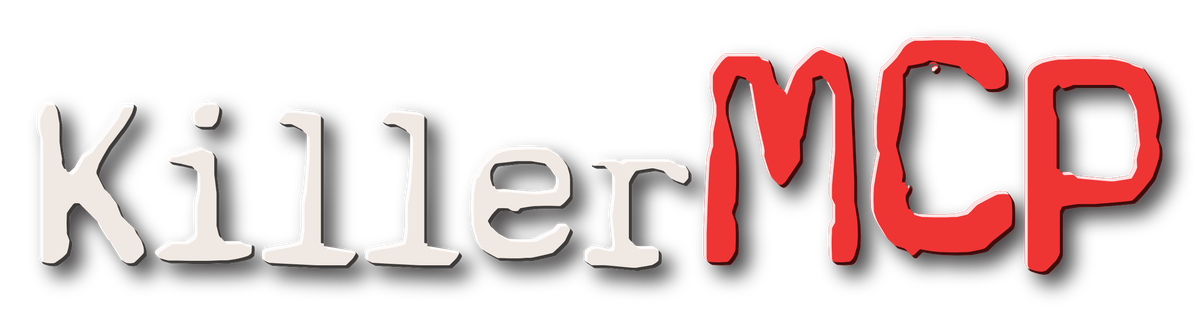
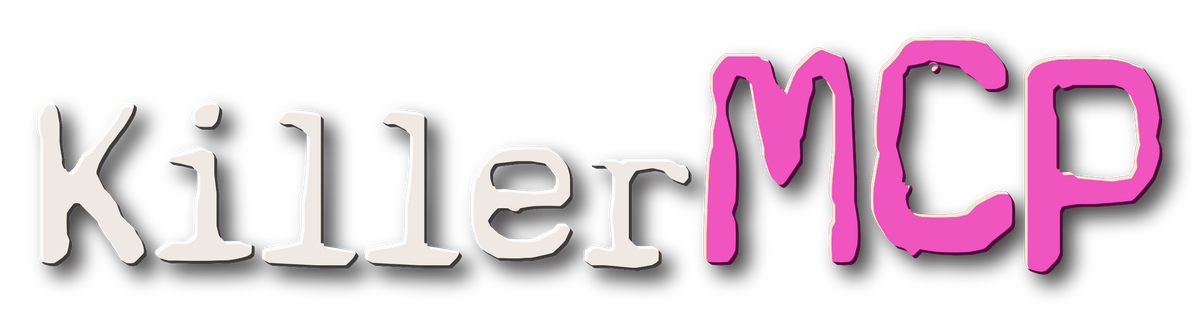
Shorten the README, list app tools in a table and use the magenta wordmark

Changed region(s): [[0.5858, 0.1154, 0.9867, 0.8942]]

diff --git a/README.md b/README.md
@@ -5,108 +5,46 @@
 
 One local MCP connection for KillerTools and the Killer app family: KillerPDF, KillerNotes, KillerScan, KillerShell, Killendar, KillerBench, and KillerShot.
 
-KillerMCP is a native .NET 10 host. It detects supported Killer apps, exposes their available commands, and registers one MCP server with compatible agent clients. The separate [KillerTools repository](https://github.com/SteveTheKiller/KillerTools) provides the shared engine for the website utilities.
+KillerMCP detects the Killer apps you have installed, exposes the commands each version supports, and registers one MCP server with your agent clients.
 
 ## Install
 
-[Download the signed KillerMCP installer](https://github.com/SteveTheKiller/KillerMCP/releases/latest/download/KillerMCP-Setup.exe), run setup, then open a new agent chat. Setup checks for the .NET 10 runtime and registers KillerMCP with Codex, Claude Code, Claude Desktop, Cursor, GitHub Copilot, Gemini CLI, and Windsurf when those clients are found.
-
-You can also install it with WinGet or Chocolatey. Both install the .NET 10 Desktop Runtime for you when it is missing. The Microsoft Store version carries its own .NET runtime, so it needs nothing installed first.
+[Download the signed installer](https://github.com/SteveTheKiller/KillerMCP/releases/latest/download/KillerMCP-Setup.exe), or install it with WinGet or Chocolatey:
 
 ```powershell
 winget install killermcp
 choco install killermcp
 ```
 
-Fully quit and reopen an agent client after setup or upgrade, then start a new chat. In Claude Desktop, KillerMCP appears under Settings > Developer as a running local server and under Connectors as a desktop connector. Cowork can use that local connection without a separate plugin.
+Setup registers KillerMCP with Codex, Claude Code, Claude Desktop, Cursor, GitHub Copilot, Gemini CLI, and Windsurf when it finds them. It needs the .NET 10 Desktop Runtime, which WinGet and Chocolatey install for you and the Microsoft Store version carries itself. Quit and reopen your agent client afterward, then start a new chat.
 
-Once connected, ask naturally:
-
-- `killer domain search example.com`
-- `killer merge these PDFs`
-- `killerscan my network`
-- `killer update status`
-
-The server supplies tool descriptions and instructions that help the client select the appropriate tool. Client behavior varies, so these phrases are guidance rather than guaranteed commands.
-
-KillerMCP checks GitHub Releases hourly and shows a Black/Fuchsia update window when a newer version is available. Choose whether future updates should stay off, check and ask, download and ask, or install automatically. Every downloaded installer must match the published SHA256 and pass Windows signature verification before it can run.
+KillerMCP checks GitHub Releases hourly and can stay off, ask, download and ask, or install updates automatically. Every update must match its published SHA256 and pass Windows signature verification before it runs.
 
 ## What it includes
 
-- All 81 KillerTools website utilities from the native KillerTools engine.
-- Automatic tool discovery for supported versions of KillerPDF, KillerScan, KillerNotes, KillerShell, Killendar, KillerBench, and KillerShot.
-- Ordinary text saving to new UTF-8 files in Downloads without converting it to Base64.
-- Client registrations preserved during native KillerMCP updates.
-- Install, reinstall, repair, and uninstall behavior through the KillerUI styled Windows setup.
-- A framework dependent native package for each supported operating system and processor architecture.
+| App | Tools |
+| --- | --- |
+| KillerTools | All 81 website utilities from the native KillerTools engine |
+| KillerPDF | Editing, conversion, inspection, OCR, printing, redaction and accessibility checks |
+| KillerScan | Network details, scans, host probes, MAC vendor lookup, ping, route tracing, diagnostics and speed tests |
+| KillerShell | Read-only file browsing, hashing, processes, services, event logs, registry and storage reports |
+| KillerNotes | Search, read, create, edit, organize, tag, import images, history and export |
+| Killendar | Agenda lookup and single appointments while the app is open and unlocked |
+| KillerShot | Screenshots, MP4 and GIF recording, OCR, QR reading and image edits |
+| KillerBench | Windows code lookups, diagnostic scans and guarded repairs that need UAC approval |
+| Cross-app | Export notes, scan reports, agendas and folder listings to PDF, or save reports as notes |
 
-KillerPDF provides PDF editing, conversion, inspection, OCR, printing, and accessibility tools when the installed version advertises them. KillerScan provides local network details, bounded scans, host probes, offline MAC vendor lookup, ping, route tracing, diagnostics, availability watching, and KillerSpeed tests. KillerShell provides read-only file browsing, text reading, file hashing, process and service listings with optional detail and filter, event log reading, registry inspection, drive information, and a folder size report with KillerShell 1.5.1 or newer. KillerNotes can search, read, create, edit, organize, color, import images, inspect links and history, and export notes. Killendar provides agenda lookup and creates single appointments while its window is open and unlocked.
-
-KillerShot takes screenshots, records MP4 or GIF, lists monitors, windows and recent captures, and opens images in its editor. Version 1.1.1 or newer also provides local OCR and QR reading, image edits into new files, recording controls, and capture-library search when its command line advertises them. PDF optimization's signature-invalidation option requires KillerPDF 1.9.1 or newer, and EPUB and DjVu book conversion requires KillerPDF 1.9.3 or newer, so MCP can be updated before PDF.
-
-KillerBench provides offline Windows code lookups, read-only checks and full diagnostic scans. It can also preview and run a fixed list of guarded Windows repairs. Repairs are off until you turn them on in the KillerMCP section of the KillerBench About window. Every repair needs a fresh preview and Windows administrator approval through UAC. Disruptive repairs, the first repair in each host session, and repairs after a setting change also show a window explaining the repair before Windows asks for approval. Windows Hello is not required. See [KillerBench](docs/CAPABILITIES.md#killerbench) for the full list and safeguards.
-
-Cross app workflows can export a KillerNotes note, KillerScan network report, Killendar agenda, or KillerShell directory listing to PDF. They can also save scan, agenda, and directory reports as notes, or render selected KillerPDF pages into image notes.
-
-Notes and Calendar versions advertising active-app pipe support can read encrypted data after you open and unlock the app. Newer Notes capabilities also expose templates, trash and version reads, restoration, pinning and tag organization. Tools appear only when the installed app advertises them.
-
-See [What KillerMCP can do](docs/CAPABILITIES.md) for the complete tool guide, examples, limits, and data handling details.
-
-For tool permissions and invocation logging, see [Tool permissions and visibility](docs/CAPABILITIES.md#tool-permissions-and-visibility) and [Tool call history](docs/CAPABILITIES.md#tool-call-history).
+Tools only appear when the installed app version advertises them. See [What KillerMCP can do](docs/CAPABILITIES.md) for the full tool guide, version requirements, limits, permissions and data handling.
 
 ## Build from source
-
-Clone this repository with its pinned KillerTools engine source:
 
 ```powershell
 git clone --recurse-submodules https://github.com/SteveTheKiller/KillerMCP.git
 cd KillerMCP
-```
-
-Open `KillerMCP.slnx` at the repository root. The main app project, `KillerMCP.csproj`, includes the repository's source, assets, scripts, tests and documentation in Solution Explorer.
-
-| Folder | Contents |
-| --- | --- |
-| `Features` | Tools, browser companion, app integrations and cross-app workflows |
-| `Services` | MCP requests, app discovery, processes, logging, safety and updates |
-| `Models` | Tool contracts and request errors |
-| `Configuration` | Client registration and the `KillerMCP.Configure` command-line helper |
-| `Shell` | Windows tray, update window and repair confirmation |
-| `installer` | Windows setup and uninstall |
-| `dependencies/KillerTools` | Pinned source for the shared KillerTools engine |
-
-See [Architecture](docs/ARCHITECTURE.md) for the project and request flow. To add the app to an existing Visual Studio solution, add `KillerMCP.csproj` and `dependencies/KillerTools/src/KillerTools.Engine/KillerTools.Engine.csproj`. Visual Studio needs the referenced engine project loaded for package restore.
-
-Build and test the native host in a disposable lab named `LAB-VM` (substitute the lab's actual name):
-
-```powershell
 dotnet build KillerMCP.slnx -c Release
-powershell -NoProfile -File scripts\Test-All.ps1 -LabMachine LAB-VM
 ```
 
-Before release, push the reviewed commit and let its GitHub Checks finish. `Test-All.ps1` verifies that the latest Checks run for that exact commit passed before starting local acceptance. It refuses missing, running, failed or canceled runs, including a newer failure after an older success. GitHub CLI access is required. The release script does not repeat this workflow check or the full test suite.
-
-Build a framework dependent package for the current platform:
-
-```powershell
-powershell -NoProfile -File scripts\Test-NativePackage.ps1
-```
-
-Build and test the Windows installer:
-
-```powershell
-powershell -NoProfile -File scripts\Test-WindowsInstaller.ps1
-```
-
-Run app, installer and desktop acceptance in a disposable Windows lab. The maintained [fuzz and data-move drivers](scripts/review/README.md) take an explicit candidate host, scratch root and seed; app-writing scenarios require the lab mutation gate.
-
-The native host requires the .NET 10 runtime. The Windows installer checks for it before installation and links to the official Microsoft download when it is missing.
-
-For development builds or custom app locations, set `KILLERPDF_CLI`, `KILLERSCAN_CLI`, `KILLERNOTES_CLI`, `KILLENDAR_CLI`, `KILLERSHELL_CLI`, `KILLERBENCH_CLI`, or `KILLERSHOT_CLI` to an absolute executable path. An invalid override leaves that app unavailable instead of silently selecting another copy.
-
-Run `powershell -NoProfile -File release.ps1` to build, sign, verify, publish to GitHub, and submit to Microsoft Store. The reviewed source must be on `origin/main` and the changelog entry must be dated for release. Run `scripts\Test-All.ps1` separately for the full regression and installer suites. Use `-DryRun` to build and sign without tagging, publishing, or submitting to the Store. `-SkipSign` produces an unsigned local test build and never publishes or contacts the Store.
-
-Public installers are published through [KillerMCP releases](https://github.com/SteveTheKiller/KillerMCP/releases).
+See [Architecture](docs/ARCHITECTURE.md) for the project layout, test suites and release process.
 
 ## License
 

diff --git a/docs/ARCHITECTURE.md b/docs/ARCHITECTURE.md
@@ -59,3 +59,9 @@ Build `KillerMCP.slnx` from the root. This builds the host, configuration helper
 Packaging, installer checks and `release.ps1` share `-ArtifactRoot`, defaulting to `scratch/KillerMCP-packaging` under the current user's home directory. Packages, staging, installers, checksums and release notes stay there. Output inside a Git repository is rejected. Existing `-Installer` inputs remain supported for testing an exact package.
 
 Run the client and runtime check projects plus `scripts/Test-NativeHost.mjs` to verify registration, integrations and MCP behavior. `scripts/Test-NativePackage.ps1` verifies the published executables. Installer and update integration checks belong in the disposable Windows lab.
+
+The full suite runs in that lab with `powershell -NoProfile -File scripts\Test-All.ps1 -LabMachine <lab name>`. It first requires a passed GitHub Checks run for the exact commit, so push the reviewed commit and let Checks finish before starting it. The maintained [fuzz and data-move drivers](../scripts/review/README.md) take an explicit candidate host, scratch root and seed.
+
+For development builds or custom app locations, set `KILLERPDF_CLI`, `KILLERSCAN_CLI`, `KILLERNOTES_CLI`, `KILLENDAR_CLI`, `KILLERSHELL_CLI`, `KILLERBENCH_CLI`, or `KILLERSHOT_CLI` to an absolute executable path. An invalid override leaves that app unavailable instead of silently selecting another copy.
+
+`release.ps1` builds, signs, verifies, publishes to GitHub and submits to the Microsoft Store. `-DryRun` builds and signs without publishing, and `-SkipSign` produces an unsigned local build that never publishes.
